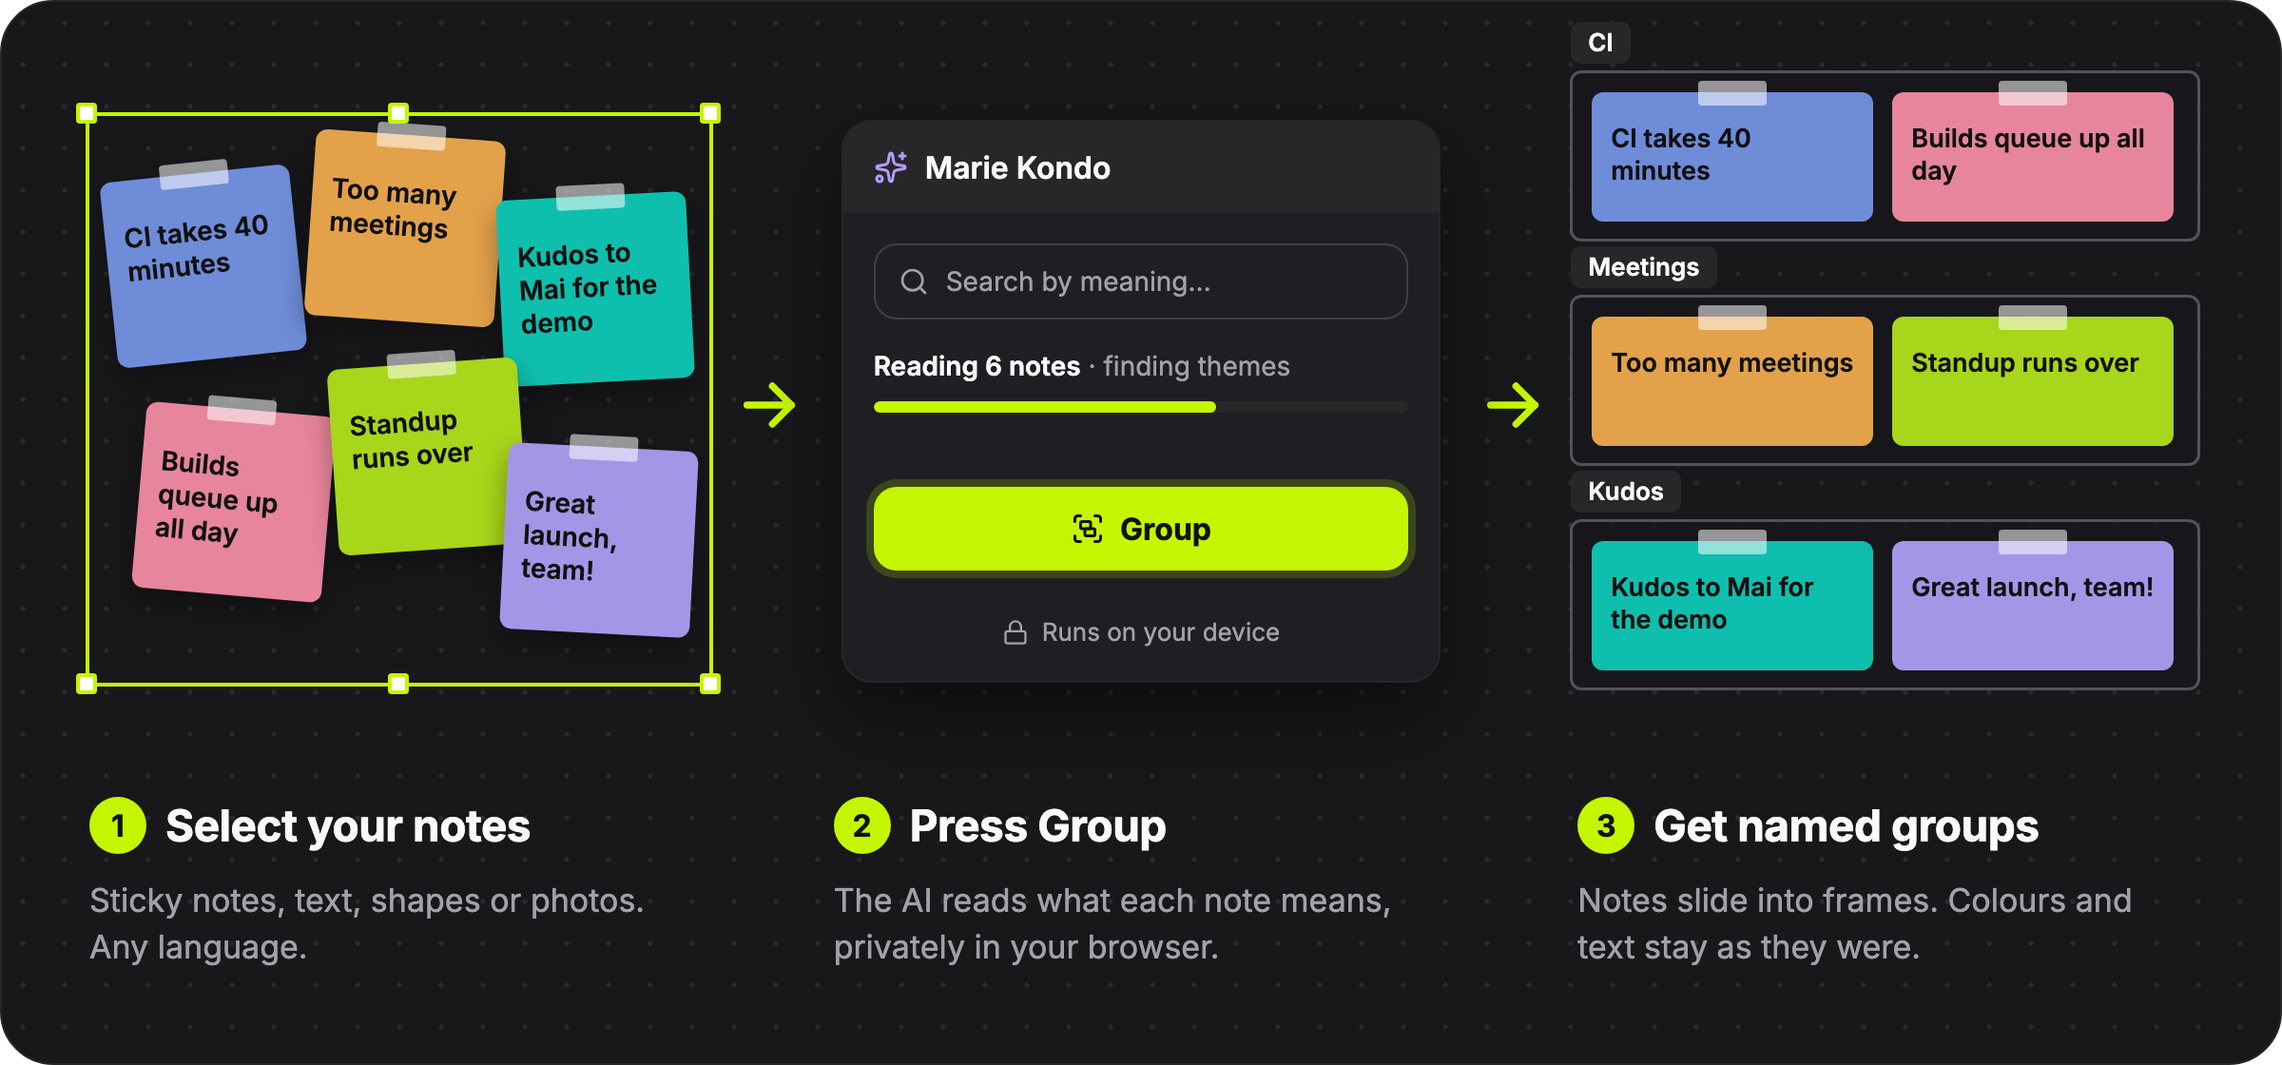
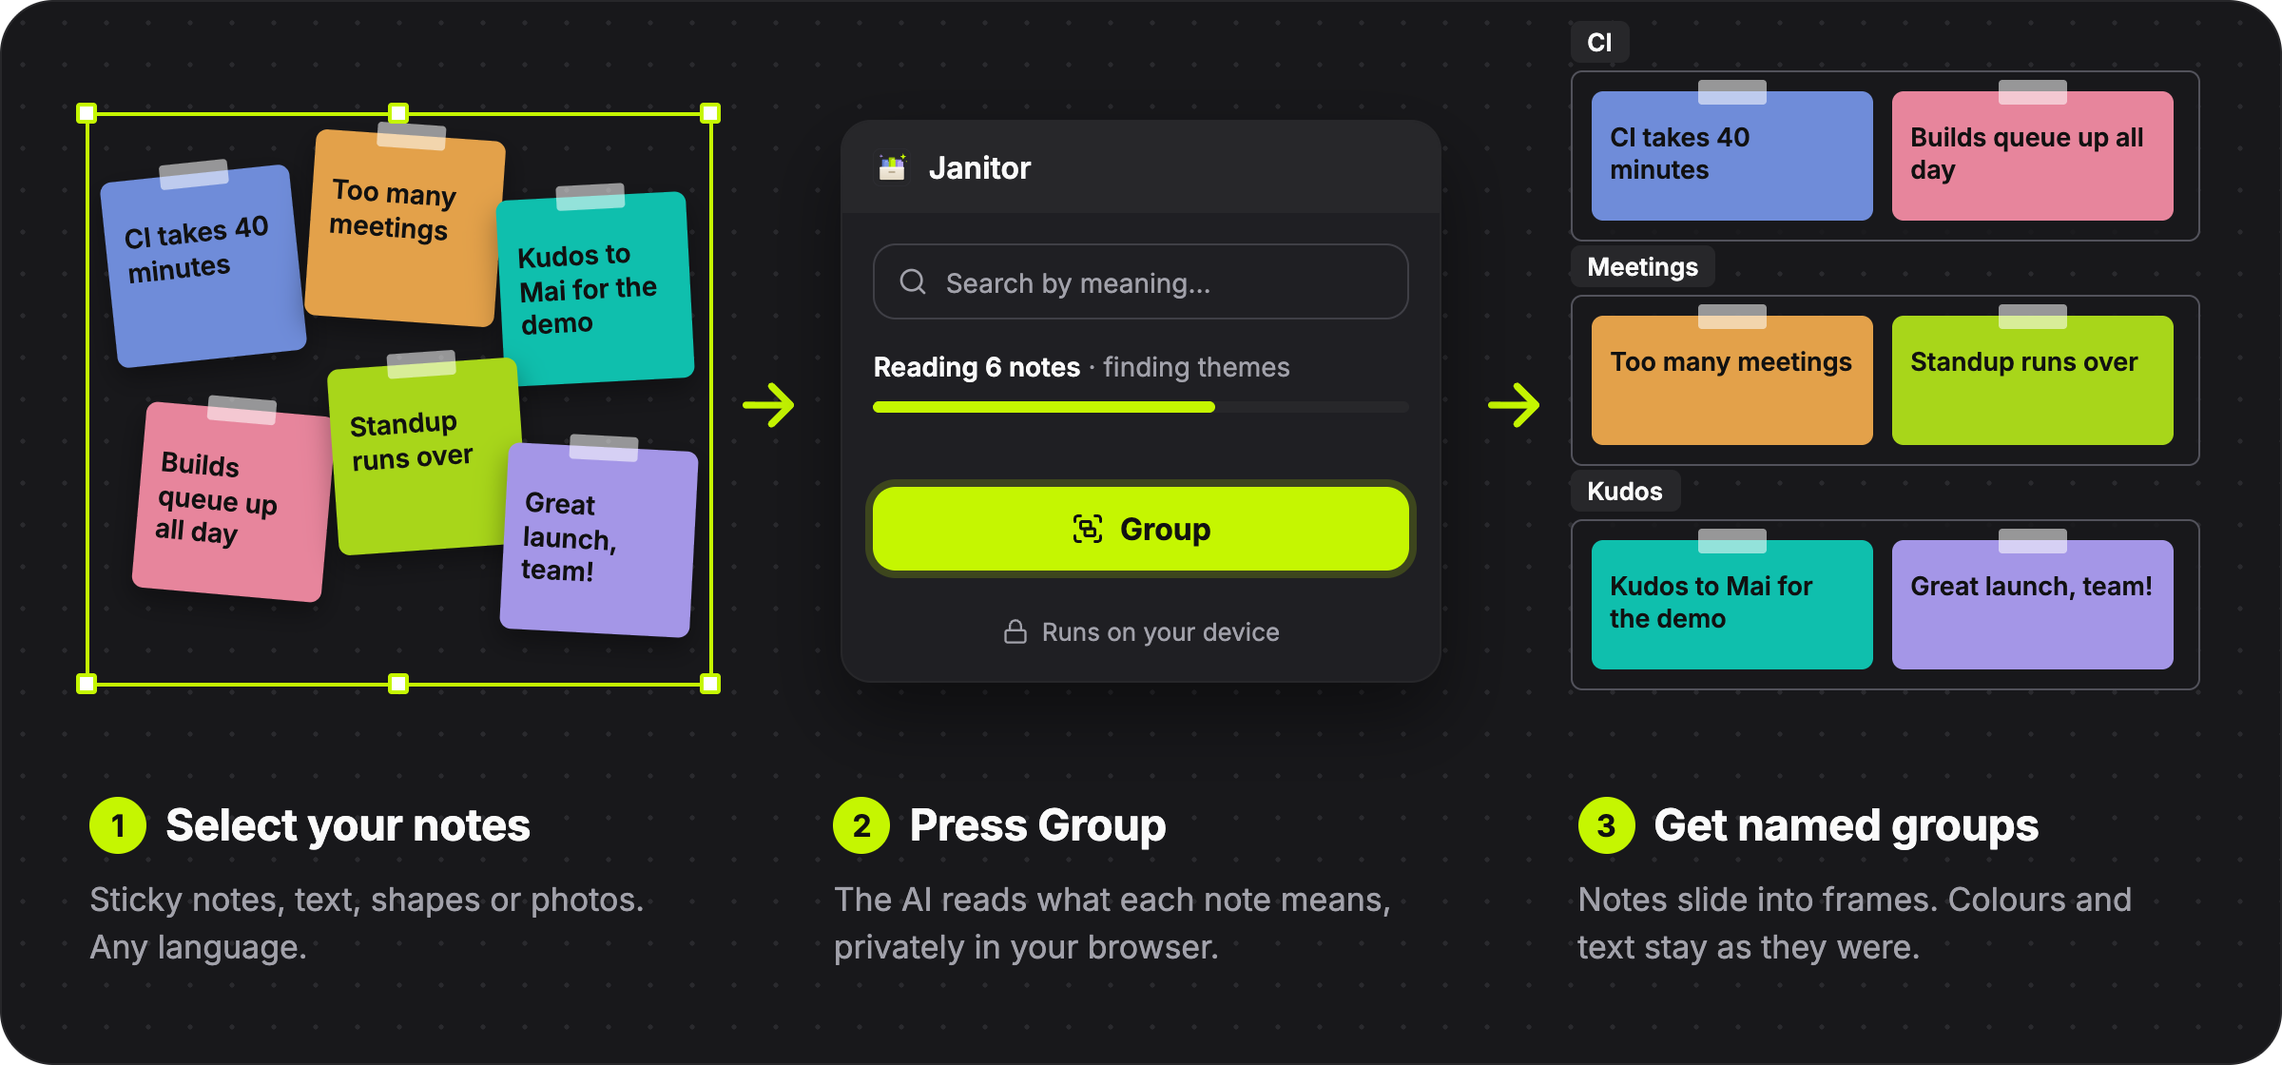
feat!: rename the extension to Janitor

diff --git a/src/webview/panel.ts b/src/webview/panel.ts
@@ -33,7 +33,7 @@ export type PanelState = {
     /** Download pressed, until the engine answers. */
     starting: boolean;
     engine: EngineState;
-    /** What Marie Kondo is doing, and how far along (0..1) when it knows. */
+    /** What Janitor is doing, and how far along (0..1) when it knows. */
     busy: { text: string; progress?: number } | null;
     query: string;
     results: { query: string; hits: SearchHit[]; ms: number; error?: string } | null;
@@ -112,9 +112,9 @@ export const createPanel = ({ post, document: doc, icons, model }: PanelDeps): P
                 if (e.state.phase === "error" && s.engine.phase !== "error" && s.setup === "done") {
                     return { ...next, notice: nextNotice(s, `Couldn't start: ${e.state.message}`, "error") };
                 }
-                // Said once, as Marie Kondo gets ready: why it may feel slow.
+                // Said once, as Janitor gets ready: why it may feel slow.
                 if (e.state.phase === "ready" && e.state.device === "wasm" && s.engine.phase !== "ready") {
-                    return { ...next, notice: nextNotice(s, "This browser can't use the GPU, so Marie Kondo is slower here.", "info") };
+                    return { ...next, notice: nextNotice(s, "This browser can't use the GPU, so Janitor is slower here.", "info") };
                 }
                 return next;
             }
@@ -324,7 +324,7 @@ export const createPanel = ({ post, document: doc, icons, model }: PanelDeps): P
         el.results.classList.toggle("stale", s.query !== "" && s.results !== null && s.results.query !== s.query);
         if (!s.query) return el.results.replaceChildren(hintView(s.suggestions));
         if (!s.results) {
-            const waiting = s.engine.phase === "ready" ? "Searching…" : "Searching as soon as Marie Kondo is ready…";
+            const waiting = s.engine.phase === "ready" ? "Searching…" : "Searching as soon as Janitor is ready…";
             return el.results.replaceChildren(h("div", { className: "hint muted", text: waiting }));
         }
         const { hits, ms, error } = s.results;
@@ -390,13 +390,13 @@ export const createPanel = ({ post, document: doc, icons, model }: PanelDeps): P
         el.setupTitle.textContent = failed
             ? "Couldn't finish the download"
             : loading
-              ? "Setting up Marie Kondo…"
-              : "Set up Marie Kondo";
+              ? "Setting up Janitor…"
+              : "Set up Janitor";
         el.setupText.textContent = failed
             ? `${engine.message}. Check your connection, then try again.`
             : loading
-              ? "Downloading the model Marie Kondo runs on your device. This happens once:"
-              : `Marie Kondo works on your device, so your notes never leave this browser. It needs a one-time download of this model, about ${DOWNLOAD_MB} MB:`;
+              ? "Downloading the model Janitor runs on your device. This happens once:"
+              : `Janitor works on your device, so your notes never leave this browser. It needs a one-time download of this model, about ${DOWNLOAD_MB} MB:`;
         el.setupModel.textContent = model;
         // The file being read right now, so a long download is visibly moving.
         const file = engine.phase === "loading" ? engine.file : undefined;
@@ -420,7 +420,7 @@ export const createPanel = ({ post, document: doc, icons, model }: PanelDeps): P
             : `Grouping photos adds ${IMAGES_MB} MB the first time.`;
     };
 
-    /** Action buttons follow the selection, and wait while Marie Kondo works. */
+    /** Action buttons follow the selection, and wait while Janitor works. */
     const renderBoard = (s: PanelState) => {
         const { items, selected, counted } = s.board;
         const busy = s.busy !== null;

diff --git a/src/driver/runtime.ts b/src/driver/runtime.ts
@@ -18,12 +18,12 @@ import { createHighlighter } from "./highlight.ts";
 import { MENU, actionForMenu, leafIds } from "./menu.ts";
 import { kvModelStore, kvSetupFlag } from "./model-store.ts";
 
-const ACTION_BUTTON_ID = "marie-kondo:open";
+const ACTION_BUTTON_ID = "janitor:open";
 /** The extension's own icon, so the sidebar button matches the extensions list. */
 const ACTION_BUTTON_SVG = appIcon(20);
 
 export type Runtime = {
-    /** Registers Marie Kondo's button, menu and subscriptions. */
+    /** Registers Janitor's button, menu and subscriptions. */
     start: () => Promise<void>;
     handle: (event: DriverSubscriptionEvent) => Promise<void>;
 };
@@ -32,14 +32,14 @@ export type Runtime = {
 const REGISTER_RETRIES_MS = [800, 2000, 4000, 8000, 15000];
 
 const UNREADABLE =
-    "Marie Kondo can't read this board without permission. Turn it on in Extensions › Marie Kondo › Manage permissions.";
+    "Janitor can't read this board without permission. Turn it on in Extensions › Janitor › Manage permissions.";
 
 /** Runs `step`, reporting whether it worked; failures are logged, not thrown. */
 const attempt = (label: string, step: () => Promise<unknown>): Promise<boolean> =>
     step().then(
         () => true,
         (err: unknown) => {
-            console.warn(`[marie-kondo] ${label} unavailable: ${err instanceof Error ? err.message : String(err)}`);
+            console.warn(`[janitor] ${label} unavailable: ${err instanceof Error ? err.message : String(err)}`);
             return false;
         }
     );
@@ -84,7 +84,7 @@ export const createRuntime = (args: Parameters<DriverModule["activate"]>[0]): Ru
             report({ selected: selected.length, single: ids.length === 1 ? ids[0] : undefined });
         }, unreadable);
     }, 120);
-    // The panel's group list is the board's: every group Marie Kondo made, as
+    // The panel's group list is the board's: every group Janitor made, as
     // it is now. Groups Drawdy's undo or the user emptied drop out, and come
     // back on redo.
     let legend: ClusterSummary[] = [];
@@ -111,7 +111,7 @@ export const createRuntime = (args: Parameters<DriverModule["activate"]>[0]): Ru
     }, 400);
 
     // Scene subscriptions start with the panel, so Drawdy asks for the scene
-    // permission when the user first opens Marie Kondo, not on page load.
+    // permission when the user first opens Janitor, not on page load.
     let watching = false;
     const watchBoard = async () => {
         if (watching) return;
@@ -141,7 +141,7 @@ export const createRuntime = (args: Parameters<DriverModule["activate"]>[0]): Ru
     /** Opens the panel; false (with a word why) until the one-time download is done. */
     const ready = async () => {
         await openPanel();
-        if (!setupDone) ctx.notify("Marie Kondo needs its one-time download first. Choose Download above.", "info");
+        if (!setupDone) ctx.notify("Janitor needs its one-time download first. Choose Download above.", "info");
         return setupDone === true;
     };
 
@@ -162,7 +162,7 @@ export const createRuntime = (args: Parameters<DriverModule["activate"]>[0]): Ru
         try {
             await job();
         } catch (err) {
-            console.error("[marie-kondo]", err);
+            console.error("[janitor]", err);
             ctx.notify(explain(err), "error");
         }
     };

diff --git a/src/webview/webview.test.ts b/src/webview/webview.test.ts
@@ -168,7 +168,7 @@ describe("panel", () => {
         const { panel } = setup();
         panel.dispatch({ type: "engine", state: { phase: "ready", device: "wasm", vision: false, adapter: null, loadMs: 900 } });
         expect(document.getElementById("notice")!.textContent).toBe(
-            "This browser can't use the GPU, so Marie Kondo is slower here."
+            "This browser can't use the GPU, so Janitor is slower here."
         );
     });
 
@@ -279,7 +279,7 @@ describe("panel", () => {
         expect(stats.textContent).toBe("1 of 1 selected");
     });
 
-    it("disables actions while Marie Kondo is busy", () => {
+    it("disables actions while Janitor is busy", () => {
         const { panel } = setup();
         const cluster = document.getElementById("cluster") as HTMLButtonElement;
         panel.dispatch({ type: "driver", message: { type: "board", items: 30, selected: 30 } });
@@ -310,7 +310,7 @@ describe("panel", () => {
         const { panel, type } = setup();
         const results = document.getElementById("results")!;
         type("fees");
-        expect(results.textContent).toBe("Searching as soon as Marie Kondo is ready…");
+        expect(results.textContent).toBe("Searching as soon as Janitor is ready…");
         panel.dispatch({
             type: "engine",
             state: { phase: "ready", device: "webgpu", vision: false, adapter: null, loadMs: 900 },
@@ -346,7 +346,7 @@ describe("panel", () => {
         panel.dispatch({ type: "driver", message: { type: "setup", needed: true } });
         expect(visible("setup")).toBe(true);
         expect(visible("work")).toBe(false);
-        expect(text("setup-title")).toBe("Set up Marie Kondo");
+        expect(text("setup-title")).toBe("Set up Janitor");
         expect(text("setup-label")).toBe("Download (235 MB)");
         // What will download, by its id, in code style.
         expect(document.querySelector("#setup code#setup-model")?.textContent).toBe(MODEL.id);
@@ -360,7 +360,7 @@ describe("panel", () => {
             type: "engine",
             state: { phase: "loading", progress: 0.5, downloadedBytes: 120e6, detail: "Downloading", file: "onnx/model_q4.onnx_data" },
         });
-        expect(text("setup-title")).toBe("Setting up Marie Kondo…");
+        expect(text("setup-title")).toBe("Setting up Janitor…");
         expect(text("setup-file")).toBe("onnx/model_q4.onnx_data");
         expect(visible("setup-file-line")).toBe(true);
         expect(text("setup-detail")).toBe("120 of about 235 MB · 51%");

diff --git a/src/driver/menu.ts b/src/driver/menu.ts
@@ -5,17 +5,17 @@ const GROUP_COUNTS = [3, 4, 5, 6, 8] as const;
 
 /** Shown under Drawdy's "Extension" submenu on right-click. */
 export const MENU: ContextMenu = {
-    menuId: "marie-kondo",
-    menuTitle: "Marie Kondo",
+    menuId: "janitor",
+    menuTitle: "Janitor",
     children: [
-        { menuId: "marie-kondo:cluster", menuTitle: "Group by meaning" },
+        { menuId: "janitor:cluster", menuTitle: "Group by meaning" },
         {
-            menuId: "marie-kondo:cluster-into",
+            menuId: "janitor:cluster-into",
             menuTitle: "Group into…",
-            children: GROUP_COUNTS.map((k) => ({ menuId: `marie-kondo:cluster:${k}`, menuTitle: `${k} groups` })),
+            children: GROUP_COUNTS.map((k) => ({ menuId: `janitor:cluster:${k}`, menuTitle: `${k} groups` })),
         },
-        { menuId: "marie-kondo:similar", menuTitle: "Find similar" },
-        { menuId: "marie-kondo:open", menuTitle: "Search by meaning…" },
+        { menuId: "janitor:similar", menuTitle: "Find similar" },
+        { menuId: "janitor:open", menuTitle: "Search by meaning…" },
     ],
 };
 
@@ -24,14 +24,14 @@ export const leafIds = (menu: ContextMenu): string[] =>
     menu.children?.length ? menu.children.flatMap(leafIds) : [menu.menuId];
 
 export const actionForMenu = (menuId: string): Action | null => {
-    const k = /^marie-kondo:cluster:(\d+)$/.exec(menuId)?.[1];
+    const k = /^janitor:cluster:(\d+)$/.exec(menuId)?.[1];
     if (k) return { type: "cluster", k: Number(k) };
     switch (menuId) {
-        case "marie-kondo:cluster":
+        case "janitor:cluster":
             return { type: "cluster" };
-        case "marie-kondo:similar":
+        case "janitor:similar":
             return { type: "similar" };
-        case "marie-kondo:open":
+        case "janitor:open":
             return { type: "open-panel" };
         default:
             return null;

diff --git a/src/driver/channel.ts b/src/driver/channel.ts
@@ -12,7 +12,7 @@ import { ICONS } from "../shared/icons.ts";
 import type { Ddp } from "./ddp.ts";
 import { webviewHtml } from "./webview-html.ts";
 
-const WEBVIEW_ID = "marie-kondo:panel";
+const WEBVIEW_ID = "janitor:panel";
 /** How long a new webview gets to start its script. */
 const START_TIMEOUT_MS = 20_000;
 
@@ -51,7 +51,7 @@ export const themeCss = (styling: ModuleStyling): string =>
         .join("");
 
 /**
- * The driver's end of the Marie Kondo webview: creates it, waits for its
+ * The driver's end of the Janitor webview: creates it, waits for its
  * script to announce `ready`, queues messages until then, and checks every
  * message coming back against the protocol.
  */
@@ -85,7 +85,7 @@ export const createChannel = (deps: { ddp: Ddp; styling: () => ModuleStyling }):
     const waitReady = () =>
         new Promise<void>((resolve, reject) => {
             if (ready) return resolve();
-            const timer = setTimeout(() => reject(new Error("The Marie Kondo panel did not start")), START_TIMEOUT_MS);
+            const timer = setTimeout(() => reject(new Error("The Janitor panel did not start")), START_TIMEOUT_MS);
             waiters = [
                 ...waiters,
                 () => {
@@ -117,7 +117,7 @@ export const createChannel = (deps: { ddp: Ddp; styling: () => ModuleStyling }):
     const receive = (raw: unknown) => {
         const message = parse(webviewToDriver, raw);
         if (!message) {
-            console.warn(`[marie-kondo] ignored a malformed webview message: ${JSON.stringify(raw)?.slice(0, 300)}`);
+            console.warn(`[janitor] ignored a malformed webview message: ${JSON.stringify(raw)?.slice(0, 300)}`);
             return;
         }
         if (message.type === "ready") markReady();

diff --git a/src/driver/board.ts b/src/driver/board.ts
@@ -4,10 +4,10 @@ import type { Rect } from "../lib/layout.ts";
 import type { ClusterSummary, ItemKind } from "../shared/protocol.ts";
 import type { Ddp } from "./ddp.ts";
 
-/** Meta key on the frames Marie Kondo creates. */
-export const MARK = "marie-kondo";
+/** Meta key on the frames Janitor creates. */
+export const MARK = "janitor";
 
-/** Anything on the board Marie Kondo can read: notes, text, labelled shapes, images. */
+/** Anything on the board Janitor can read: notes, text, labelled shapes, images. */
 export type BoardItem = {
     id: string;
     kind: ItemKind;
@@ -155,7 +155,7 @@ export const framesLeftEmpty = async (ddp: Ddp, items: readonly BoardItem[]): Pr
 
 /**
  * How many items the board has, the text of its notes, and its groups: the
- * frames Marie Kondo made, in reading order (top to bottom, then left to
+ * frames Janitor made, in reading order (top to bottom, then left to
  * right), each with how many items it holds now. Groups the user emptied are
  * left out. The full read asks for no geometry, which Drawdy would compute
  * for every element; only the group frames are measured.

diff --git a/src/driver/engine-client.ts b/src/driver/engine-client.ts
@@ -66,7 +66,7 @@ export const createEngineClient = (deps: { channel: Channel; store: ModelFileSto
         heardAt = Date.now();
         watchdog = setInterval(() => {
             if (Date.now() - heardAt <= SILENCE_LIMIT_MS) return;
-            const err = new Error("Marie Kondo stopped responding. Reload the page, then try again.");
+            const err = new Error("Janitor stopped responding. Reload the page, then try again.");
             [...pending.keys()].forEach((requestId) => settle(requestId)?.reject(err));
         }, 5_000);
     };
@@ -116,7 +116,7 @@ export const createEngineClient = (deps: { channel: Channel; store: ModelFileSto
                 await store.put(message.key, message.blob).catch(() => undefined);
                 return channel.post({ type: "cache-put-done", requestId: message.requestId });
             case "log":
-                return console[message.level](`[marie-kondo] ${message.message}`);
+                return console[message.level](`[janitor] ${message.message}`);
             default:
                 return;
         }

diff --git a/src/shared/protocol.ts b/src/shared/protocol.ts
@@ -1,5 +1,5 @@
 /**
- * Messages between the driver (Drawdy's shared host worker) and Marie Kondo's
+ * Messages between the driver (Drawdy's shared host worker) and Janitor's
  * webview, which hosts the panel UI and the embedding engine.
  *
  * The engine lives in the webview because Drawdy starts drivers from
@@ -95,7 +95,7 @@ export type DriverToWebview =
     | { type: "notice"; text: string; tone: Tone }
     /** Whether the one-time download still has to happen (asked for in the panel). */
     | { type: "setup"; needed: boolean }
-    /** What Marie Kondo is doing, with how far along (0..1) when it knows. */
+    /** What Janitor is doing, with how far along (0..1) when it knows. */
     | { type: "busy"; text: string | null; progress?: number };
 
 export const webviewToDriver = g.union(

diff --git a/src/driver/camera.ts b/src/driver/camera.ts
@@ -2,7 +2,7 @@ import type { Rect } from "../lib/layout.ts";
 import type { Ddp } from "./ddp.ts";
 
 /**
- * Screen space Drawdy's own UI covers: the Marie Kondo panel on the right, the
+ * Screen space Drawdy's own UI covers: the Janitor panel on the right, the
  * toolbar on top, and (while something is selected) the style panel on the
  * left.
  */
@@ -15,7 +15,7 @@ const MIN_FREE = 200;
 
 /**
  * Flies the camera so `rect` fills the screen space left free by Drawdy's
- * toolbar and the Marie Kondo panel, instead of hiding under them. On small
+ * toolbar and the Janitor panel, instead of hiding under them. On small
  * windows, where avoiding them would leave no room, `rect` goes under them.
  */
 export const focus = async (

diff --git a/src/driver/actions/similar.ts b/src/driver/actions/similar.ts
@@ -33,7 +33,7 @@ export const findSimilar = async (ctx: Context): Promise<void> => {
     try {
         ctx.busy("Finding similar notes…");
         const seedVectors = readable(seeds, await ctx.embeddings.items("similarity", seeds)).vectors;
-        if (seedVectors.length === 0) return ctx.notify("Marie Kondo couldn't read the selected image.", "error");
+        if (seedVectors.length === 0) return ctx.notify("Janitor couldn't read the selected image.", "error");
         const query = normalize(mean(seedVectors));
         // Items that cannot be read (a broken image) are left out.
         const { items: candidates, vectors } = readable(

diff --git a/src/driver/ddp.ts b/src/driver/ddp.ts
@@ -39,5 +39,5 @@ export const protocolError = (err: unknown): ProtocolCommandError | null =>
 /** A failure, in words for the panel. */
 export const explain = (err: unknown): string =>
     protocolError(err)?.type === "unauthorized"
-        ? "Marie Kondo doesn't have permission for this. Turn it on in Extensions › Marie Kondo › Manage permissions."
+        ? "Janitor doesn't have permission for this. Turn it on in Extensions › Janitor › Manage permissions."
         : `Something went wrong: ${err instanceof Error ? err.message : String(err)}`;

diff --git a/src/driver/actions/cluster.ts b/src/driver/actions/cluster.ts
@@ -191,7 +191,7 @@ export const clusterSelection = async (ctx: Context, k?: number): Promise<Cluste
     }
     if (distinct.length > MAX_ITEMS) {
         const max = MAX_ITEMS.toLocaleString("en-US");
-        ctx.notify(`Marie Kondo groups up to ${max} notes at a time. Select fewer, then try again.`, "info");
+        ctx.notify(`Janitor groups up to ${max} notes at a time. Select fewer, then try again.`, "info");
         return null;
     }
     const what = countPhrase(items);
